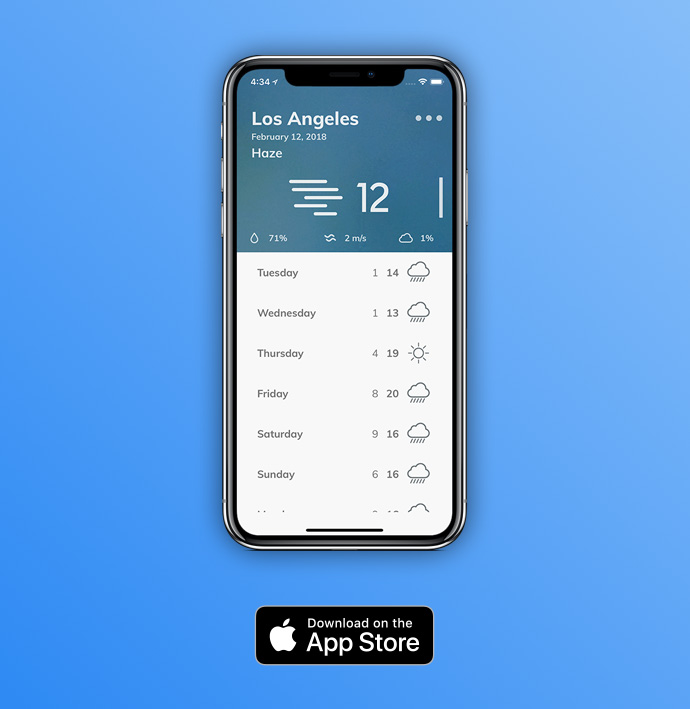
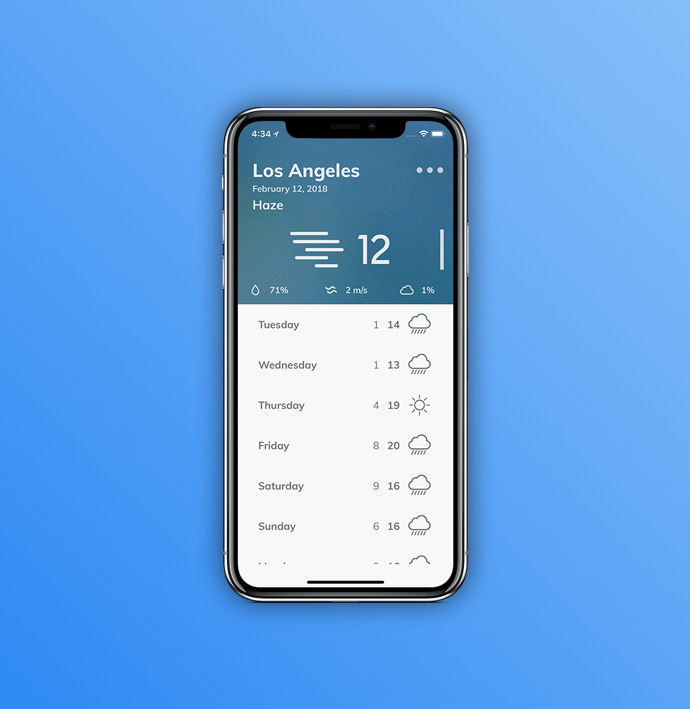
Updated weather app status

Changed region(s): [[0.3043, 0.0621, 0.7, 0.9619]]

diff --git a/projects/weather-gps.html b/projects/weather-gps.html
@@ -111,13 +111,6 @@
 									Perfectly works on all devices with iOS 13 and up support both iPhone & iPad.
 							</p>
 						</div>
-
-						<div class="row shows_row flex_centered home_button">
-							<a href="https://itunes.apple.com/us/app/weathergps-current-weather-in-your-location/id1178333093?ls=1&mt=8">
-								<img class="download_button" src="../images/download_on_the_app_store_black.svg">
-							</a>
-						</div>
-
 					</div>
 
 					<!-- Screenshot -->
@@ -210,37 +203,6 @@
 					<div class="show_screenshot trans_400">
 						<div class="show_image">
 							<img class="center-block" src="../images/weather-gps-5.png">
-						</div>
-					</div>
-				</div>
-
-			</div>
-		</div>
-	</div>
-
-	<!-- Policies -->
-	<div class="shows home_bg">
-		<div class="container">
-
-			<!-- Featured Projects -->
-			<div class="section_title text-center project_margin"><h1>Policies</h1></div>
-
-			<div class="row shows_row flex_centered">
-
-				<!-- Terms of Service -->
-				<div class="col-lg-4">
-					<div class="row shows_row flex_centered">
-						<div class="button_fill button_squared">
-							<a href="../docs/weathergps-terms-of-service.html">Terms of Service</a>
-						</div>
-					</div>
-				</div>
-
-				<!-- Privacy Policy -->
-				<div class="col-lg-4">
-					<div class="row shows_row flex_centered">
-						<div class="button_fill button_squared">
-							<a href="../docs/weathergps-privacy-policy.html">Privacy Policy</a>
 						</div>
 					</div>
 				</div>
